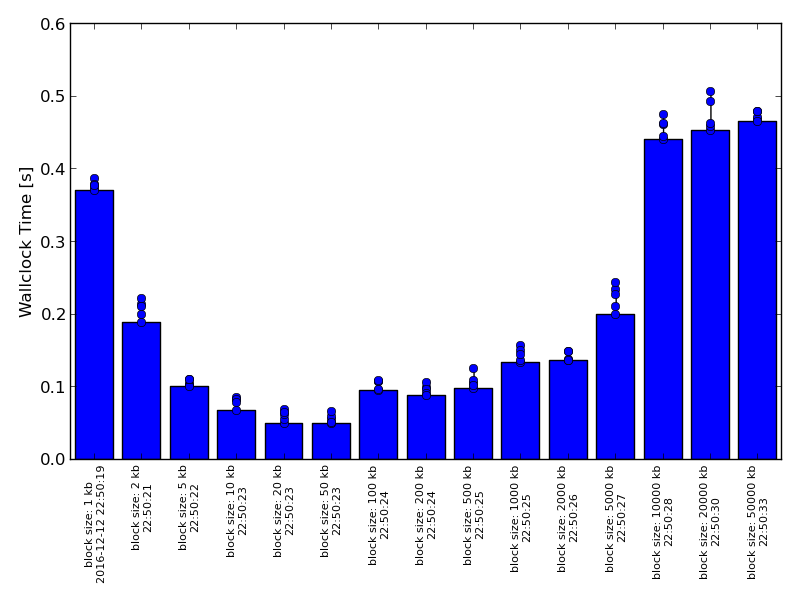
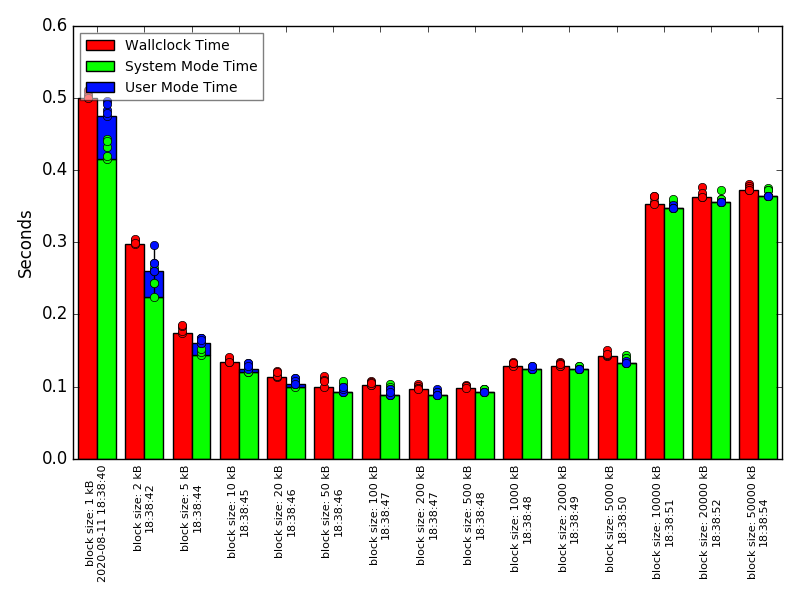
update documentation

Changed region(s): [[0.0, 0.03, 1.0, 0.96]]

diff --git a/README.md b/README.md
@@ -28,3 +28,13 @@ Result:
 The bars show the lowest execution time; the small dots are the results of each single run.
 
 The diagram displays lowest time prominently because this is the fastest time that was achievable with the specified settings; the higher values just indicate that something interfered with the run.
+
+By default the diagram shows "wallclock seconds", ie. elapsed time, and also system and user CPU time.
+Other types of measurement can be displayed by specifying the measurement name before the diagram output file name, separated by "=".
+Multiple measurements can be displayed in a single diagram by listing their names separated by ",".
+Measurement values can be stacked by separating their names with "+".
+
+Hence, the default diagram style can also be achieved like this:  
+`timeit -f dd.json -o wallclock,ru_utime+ru_stime=dd.png`
+
+For a list of available measurement names, refer to the [documentation of Python `resource` module](https://docs.python.org/2/library/resource.html#resource-usage) or the `getrusage(2)` man page.
